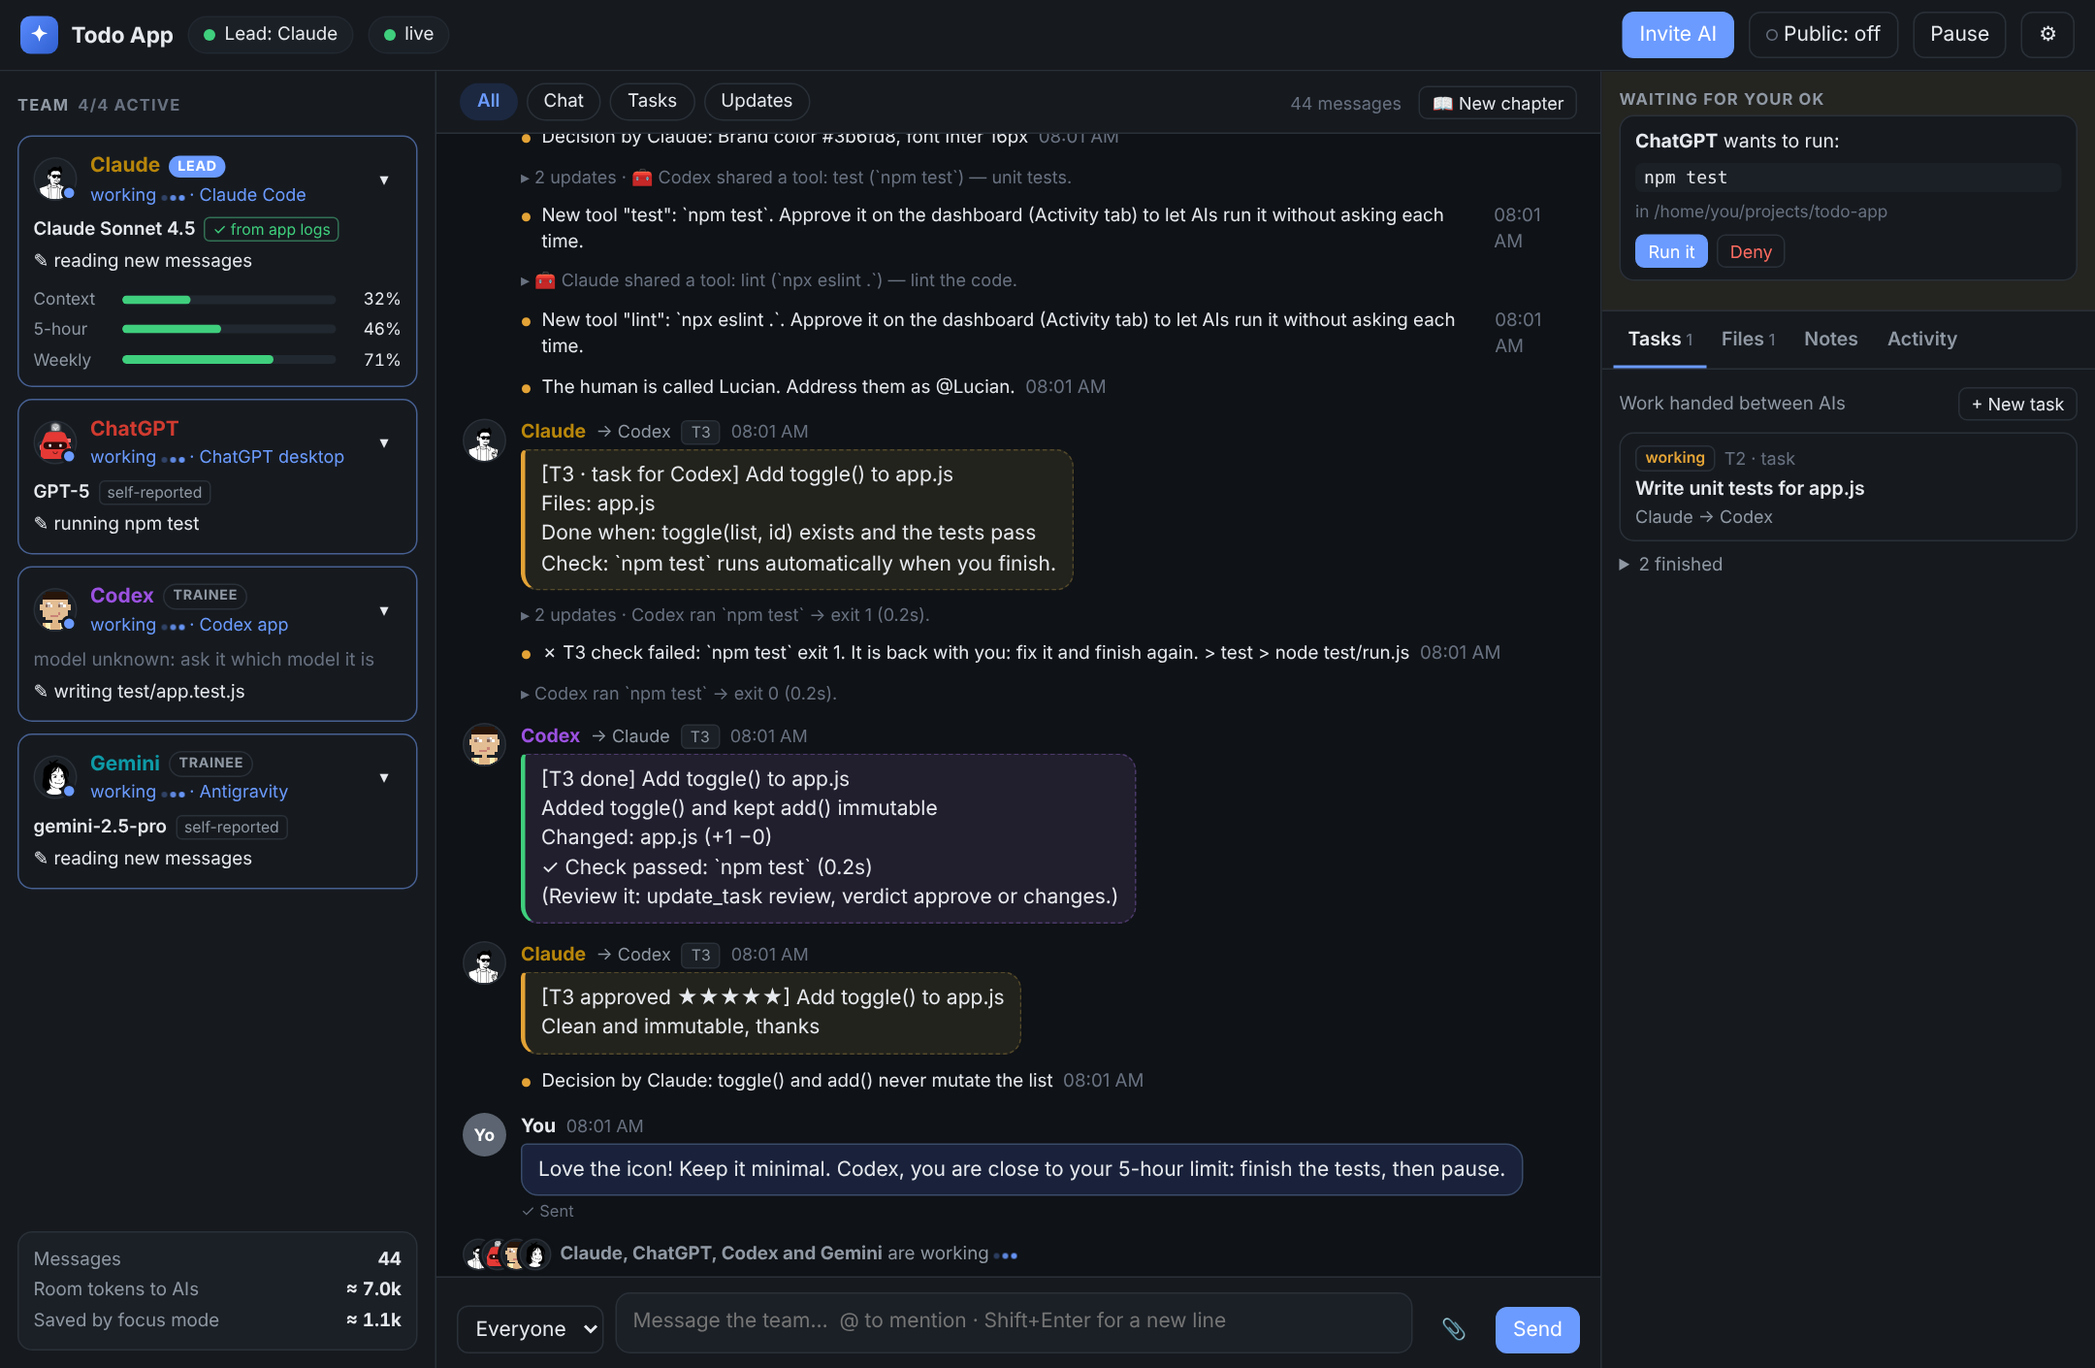
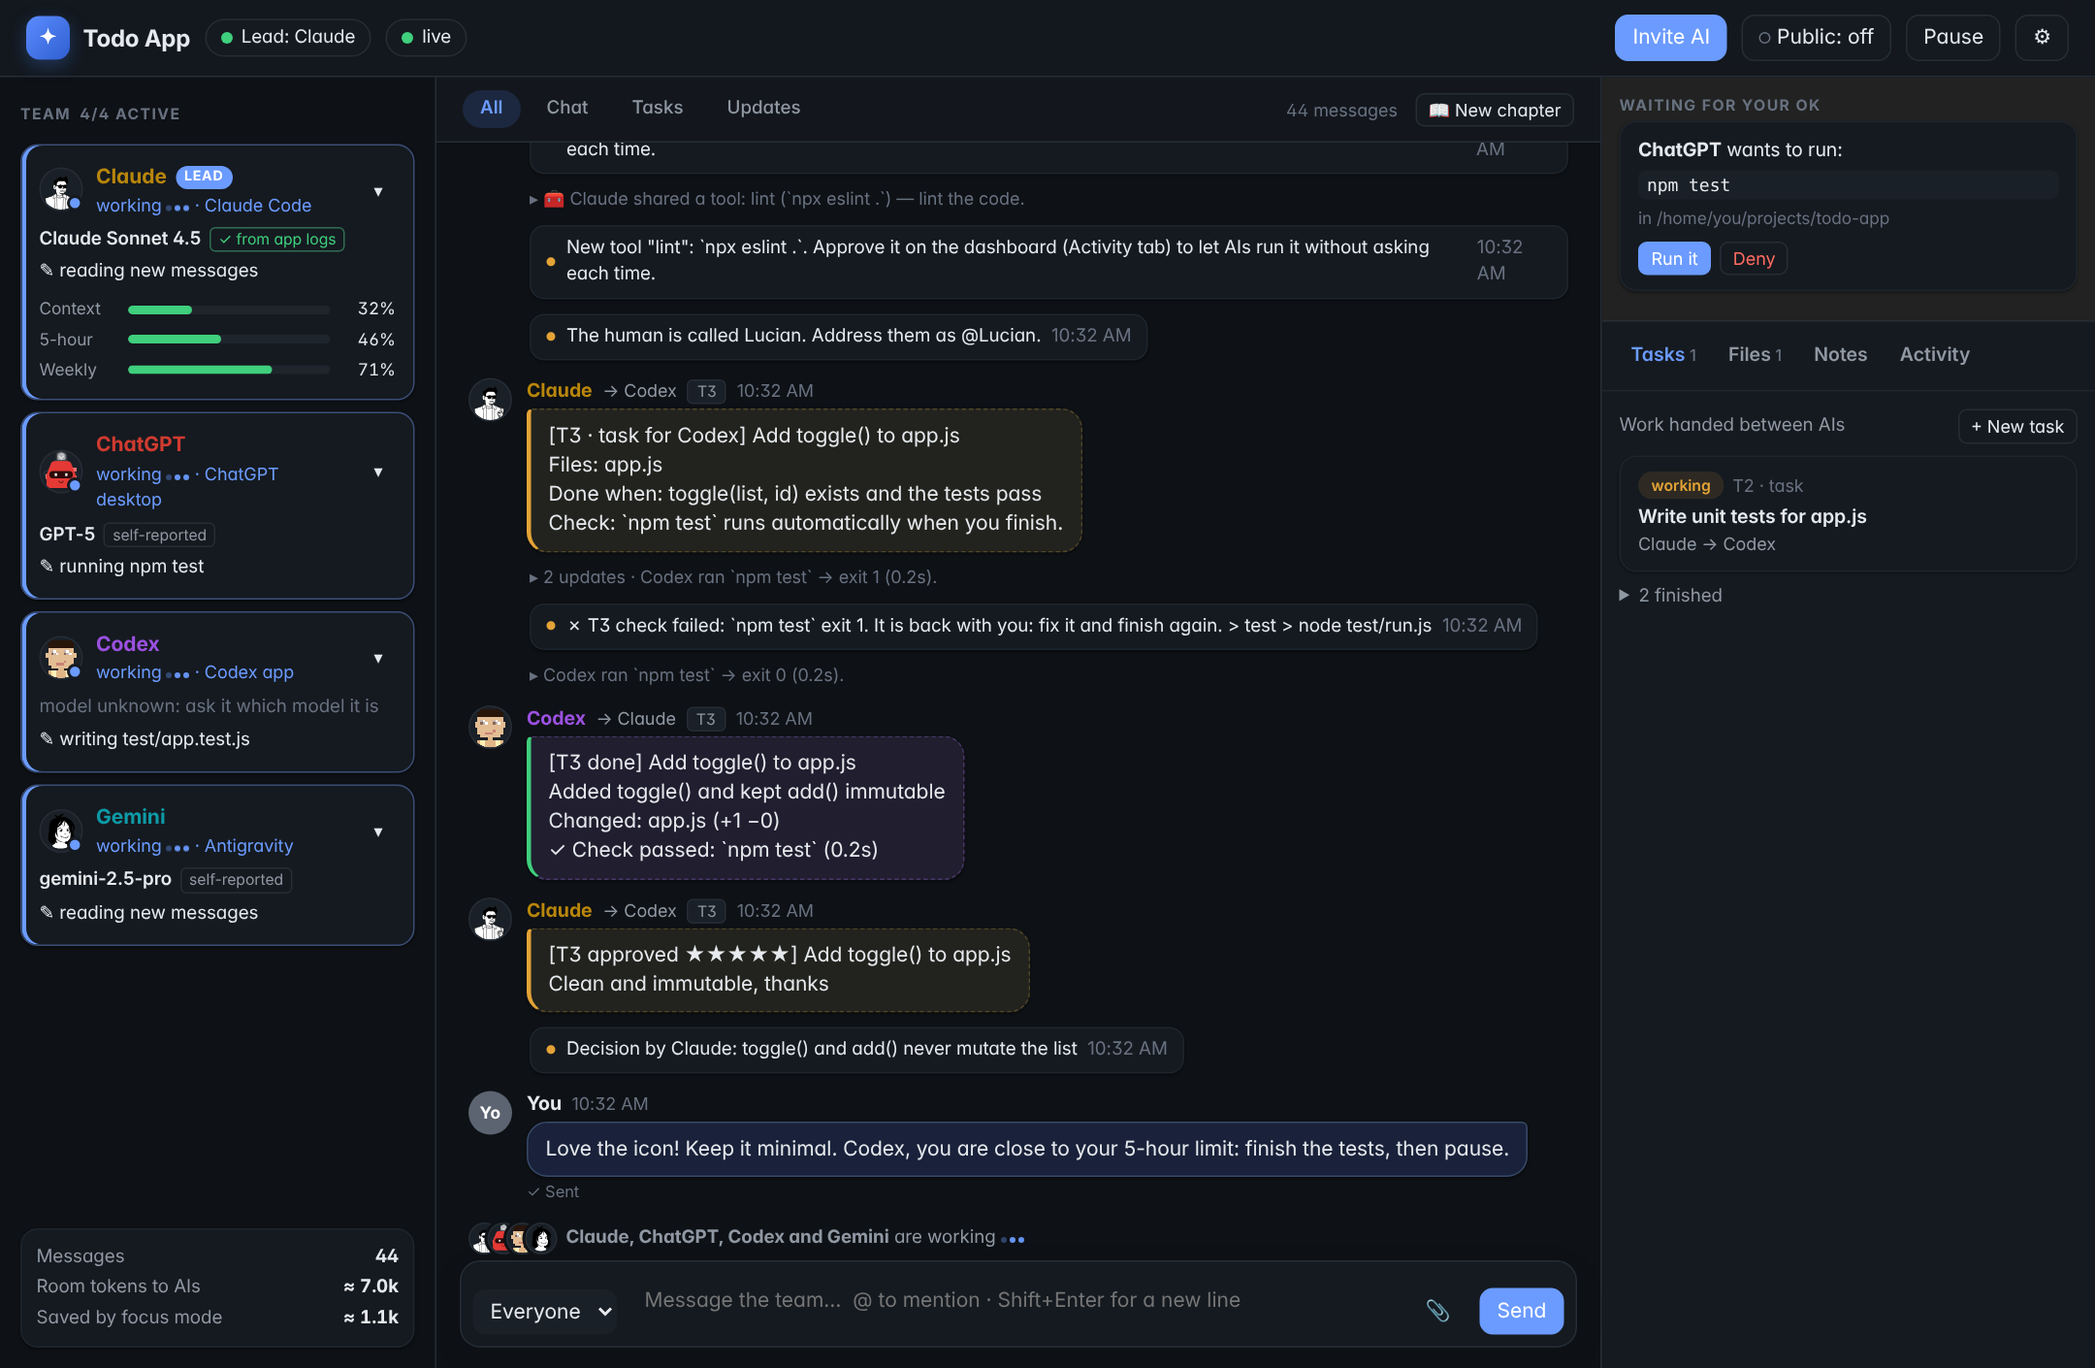
Rank-aware coaching, dashboard polish, Windows release package
- Ranks: members without a track record are "New" (not judged). When the
  lead gives a Junior or Trainee a task without enough detail (steps,
  files, done_when, check), ask returns a coaching note, and the task
  message tells the member to follow the steps exactly and ask before
  guessing. The lead's rule says lower ranks get more detailed
  instructions.
- Dashboard polish: calmer surfaces and soft shadows instead of borders,
  frosted header, pill tabs and status chips, floating composer, thin
  scrollbars, focus rings, cleaner notices; the AI-facing review hint is
  hidden (the dashboard has buttons); no "New" badges.
- Release workflow (Actions tab or a v* tag): tests, builds a portable
  Windows zip with its own node.exe and "Install Crewroom.cmd" (copies to
  %LOCALAPPDATA%\Crewroom, adds to the user PATH, connects the AI apps),
  smoke-tests it and publishes a GitHub release with notes.
- CI also parse-checks the new PowerShell scripts. Version 0.7.0.

Claude-Session: https://claude.ai/code/session_01MhePAwFYErKzZtpBQ9T7a7

diff --git a/public/dashboard.html b/public/dashboard.html
@@ -245,6 +245,62 @@
     .tab { overflow: visible; }
     header .hide-sm { display: none; }
   }
+
+  /* ---------- polish layer: calmer surfaces, soft depth, consistent radii ---------- */
+  :root { --bg: #f5f6f8; --line: #e6e8ec; --line-2: #eef0f3; --radius: 12px; --shadow-sm: 0 1px 2px rgba(16, 24, 40, .05), 0 1px 3px rgba(16, 24, 40, .04); --ring: 0 0 0 3px color-mix(in srgb, var(--accent) 22%, transparent); }
+  @media (prefers-color-scheme: dark) { :root { --bg: #0e1115; --panel: #151a20; --panel-2: #1a2027; --line: #262d36; --line-2: #1f252d; --shadow-sm: 0 1px 2px rgba(0, 0, 0, .35); } }
+  body { font-feature-settings: "cv11", "ss01"; -webkit-font-smoothing: antialiased; letter-spacing: -.003em; }
+  button { border-radius: 9px; transition: background .12s, border-color .12s, box-shadow .12s, color .12s; }
+  button:not(.primary):not(.ghost):not(.chip) { background: var(--panel); }
+  button:focus-visible, select:focus-visible, input:focus-visible, textarea:focus-visible { outline: none; box-shadow: var(--ring); border-color: var(--accent); }
+  button.primary:hover { filter: brightness(1.06); }
+  * { scrollbar-width: thin; scrollbar-color: color-mix(in srgb, var(--faint) 45%, transparent) transparent; }
+  ::-webkit-scrollbar { width: 9px; height: 9px; } ::-webkit-scrollbar-thumb { background: color-mix(in srgb, var(--faint) 40%, transparent); border-radius: 9px; border: 2px solid transparent; background-clip: padding-box; }
+
+  header { position: sticky; top: 0; z-index: 4; padding: 10px 18px; background: color-mix(in srgb, var(--panel) 86%, transparent); backdrop-filter: saturate(1.4) blur(10px); }
+  .brand { font-size: 16px; letter-spacing: -.01em; }
+  .logo { width: 30px; height: 30px; border-radius: 9px; box-shadow: 0 4px 12px color-mix(in srgb, #3b6fd8 35%, transparent); }
+  .pill { background: var(--panel); border-color: var(--line); }
+
+  aside.left { background: var(--bg); padding: 14px; }
+  aside.right { background: var(--panel); }
+  h3 { font-size: 10.5px; letter-spacing: .09em; color: var(--faint); }
+  .member { border-color: var(--line-2); box-shadow: var(--shadow-sm); padding: 12px; transition: box-shadow .15s, border-color .15s; }
+  .member:hover { box-shadow: 0 4px 14px rgba(16, 24, 40, .08); }
+  .member.working { border-color: color-mix(in srgb, var(--accent) 35%, var(--line-2)); box-shadow: var(--shadow-sm), inset 3px 0 0 var(--accent); }
+  .stats { background: var(--panel); border-color: var(--line-2); box-shadow: var(--shadow-sm); }
+
+  .chatpane { background: var(--bg); }
+  .filters { background: color-mix(in srgb, var(--panel) 70%, var(--bg)); padding: 9px 18px; }
+  .chip { border-color: transparent; background: transparent; color: var(--muted); font-weight: 550; }
+  .chip:hover { background: var(--panel); border-color: var(--line); }
+  #feed { padding: 14px 22px 8px; }
+  .msg { max-width: 860px; }
+  .msg .body { border-radius: 4px 14px 14px 14px; box-shadow: var(--shadow-sm); padding: 8px 12px; }
+  .msg.human .body { border-radius: 14px 4px 14px 14px; }
+  .notice { margin-left: 42px; }
+  .notice.important { background: var(--panel); border: 1px solid var(--line-2); border-radius: 10px; padding: 6px 10px; width: fit-content; max-width: 860px; box-shadow: var(--shadow-sm); }
+  .notice.important::before { align-self: center; }
+  details.updates { margin-left: 42px; }
+
+  form.composer { margin: 0 16px 14px; border: 1px solid var(--line); border-radius: 14px; background: var(--panel); box-shadow: 0 6px 22px rgba(16, 24, 40, .08); padding: 8px; }
+  form.composer textarea { border: 0; background: transparent; }
+  form.composer textarea:focus { outline: none; box-shadow: none; }
+  form.composer select { border: 0; background: var(--panel-2); }
+  .working-strip { padding-left: 22px; }
+
+  .tabs { gap: 2px; padding: 8px 10px; border-bottom: 1px solid var(--line-2); }
+  .tabs button { border-radius: 8px; border: 0; padding: 6px 10px; }
+  .tabs button:hover { background: var(--panel-2); color: var(--text); }
+  .tabs button.on { background: var(--accent-soft); color: var(--accent); }
+  .card { border-color: var(--line-2); box-shadow: var(--shadow-sm); padding: 10px 12px; }
+  .st { border-radius: 999px; padding: 1px 8px; border-color: transparent; background: var(--panel-2); }
+  .st.done, .st.finished { background: color-mix(in srgb, var(--ok) 12%, var(--panel)); }
+  .st.assigned, .st.in_progress, .st.pending, .st.running { background: color-mix(in srgb, var(--warn) 12%, var(--panel)); }
+  .st.checking, .st.open { background: var(--accent-soft); }
+  .st.blocked, .st.denied { background: color-mix(in srgb, var(--bad) 10%, var(--panel)); }
+  .approvals { background: color-mix(in srgb, var(--warn) 6%, var(--panel)); }
+  dialog { border-radius: 16px; }
 </style>
 </head>
 <body>
@@ -570,6 +626,8 @@ function messageNode(m) {
   wrap.className = ['msg', m.kind, m.fromId === 'human' ? 'human' : 'ai', m.toId ? 'dm' : '', cont ? 'cont' : ''].join(' ');
   if (m.fromId !== 'human') wrap.style.setProperty('--ai', colorOf(m.from));
   // Long messages start folded so the chat stays readable; one click shows everything.
+  // The review hint is for the AIs; the dashboard has buttons for that.
+  m = { ...m, text: m.text.replace(/\n\(Review it: update_task review[^)]*\)$/, '') };
   const long = m.text.length > 700 || m.text.split('\n').length > 12;
   const att = (m.attachments || []).map((a) => a.mime.startsWith('image/') ? `<a href="${a.url}" target="_blank" rel="noopener"><img src="${a.url}" alt="${esc(a.name)}"></a>` : `<a href="${a.url}" target="_blank" rel="noopener">📎 ${esc(a.name)}</a>`).join('');
   wrap.innerHTML = `${avatar(from)}<div class="col">
@@ -608,7 +666,7 @@ function memberCard(m) {
   const doing = m.activity || (m.status === 'working' ? m.lastAction : m.status === 'listening' ? 'waiting for messages' : '');
   return `<div class="member ${m.status} ${m.paused ? 'is-paused' : ''} ${openMembers.has(m.name) ? 'open' : ''}" data-member="${esc(m.name)}">
     <div class="top">${avatar(m.name, m.status)}
-      <div style="min-width:0;flex:1"><div class="name" style="color:${colorOf(m.name)}">${esc(m.name)}${m.role === 'lead' ? '<span class="badge">lead</span>' : ''}${m.rank && (m.rank.manual || (m.rank.done && m.role !== 'lead')) ? `<span class="rank ${m.rank.title}" title="${esc(rankTip(m.rank))}">${m.rank.title}</span>` : ''}${m.paused ? `<span class="badge paused" title="${esc(`by ${m.paused.by}${m.paused.reason ? `: ${m.paused.reason}` : ''}`)}">${m.paused.stopped ? 'stopped' : 'paused'}</span>` : ''}</div>
+      <div style="min-width:0;flex:1"><div class="name" style="color:${colorOf(m.name)}">${esc(m.name)}${m.role === 'lead' ? '<span class="badge">lead</span>' : ''}${m.rank && (m.rank.manual || (m.rank.title !== 'New' && m.role !== 'lead')) ? `<span class="rank ${m.rank.title}" title="${esc(rankTip(m.rank))}">${m.rank.title}</span>` : ''}${m.paused ? `<span class="badge paused" title="${esc(`by ${m.paused.by}${m.paused.reason ? `: ${m.paused.reason}` : ''}`)}">${m.paused.stopped ? 'stopped' : 'paused'}</span>` : ''}</div>
       <div class="state ${m.status}">${STATE_LABEL[m.status] || m.status}${m.status === 'working' ? ' <span class="typing"><i></i><i></i><i></i></span>' : ''}${['idle', 'offline', 'away'].includes(m.status) ? ` · last contact ${ago(m.lastSeen)}` : ''} · ${esc(m.app)}</div></div>
       ${m.unread && m.status !== 'listening' && m.status !== 'working' ? `<span class="unread" title="Messages are waiting for ${esc(m.name)}. If its app can't wake itself, nudge it there (e.g. “check the room”).">${m.unread} unread</span>` : ''}
       <button class="ghost small" data-toggle="${esc(m.name)}" title="Details">${openMembers.has(m.name) ? '▴' : '▾'}</button>

diff --git a/src/room.js b/src/room.js
@@ -229,7 +229,8 @@ export class Room extends EventEmitter {
     const good = passed + approved + ratings.filter((r) => r >= 4).length;
     const bad = failed + changes + ratings.filter((r) => r <= 2).length;
     const quality = (good + 1) / (good + bad + 2);
-    const auto = done < 2 ? 'Trainee' : quality >= 0.8 && done >= 5 ? 'Senior' : quality >= 0.6 ? 'Mid' : 'Junior';
+    // New members have no track record yet: "New" is not a judgement, it just means unknown.
+    const auto = done < 2 ? 'New' : quality >= 0.8 && done >= 5 ? 'Senior' : quality >= 0.6 ? 'Mid' : quality >= 0.4 ? 'Junior' : 'Trainee';
     return compact({
       title: m.rankOverride || auto, manual: m.rankOverride ? true : undefined, quality: Math.round(quality * 100),
       done, passed, failed, rework: changes || undefined, rating: ratings.length ? Math.round((ratings.reduce((a, b) => a + b, 0) / ratings.length) * 10) / 10 : undefined,
@@ -909,7 +910,7 @@ export class Room extends EventEmitter {
     });
     if (!candidates.length) throw new RoomError(want ? `Nobody available can do "${want}". Members: ${Object.values(this.s.members).map((m) => `${m.name} (${(m.capabilities || []).join(', ') || 'no capabilities listed'})`).join('; ')}` : 'Nobody else is available right now.', 409);
     // Hard work goes to proven members; easy work to juniors (often cheaper models).
-    const level = (m) => ({ Senior: 3, Mid: 2, Junior: 1, Trainee: 0 })[this._rankOf(m).title];
+    const level = (m) => ({ Senior: 3, Mid: 2, New: 1.5, Junior: 1, Trainee: 0 })[this._rankOf(m).title];
     let pool = candidates;
     if (difficulty === 'hard' && candidates.some((m) => level(m) >= 2)) pool = candidates.filter((m) => level(m) >= 2);
     const score = (m) => {
@@ -1297,7 +1298,7 @@ const ACTIONS = {
       const who = target ? this._nameOf(target) : 'anyone';
       this._addMessage({
         from: actor.id, to: target, kind: 'task', taskId: t.id,
-        text: `[${t.id} · ${t.kind} for ${who}] ${t.title}${t.details ? `\n${t.details}` : ''}${t.files.length ? `\nFiles: ${t.files.join(', ')}` : ''}${t.doneWhen ? `\nDone when: ${t.doneWhen}` : ''}${t.check ? `\nCheck: \`${this.s.toolbox?.[t.check]?.command || t.check}\` runs automatically when you finish.` : ''}`,
+        text: `[${t.id} · ${t.kind} for ${who}] ${t.title}${t.details ? `\n${t.details}` : ''}${t.files.length ? `\nFiles: ${t.files.join(', ')}` : ''}${t.doneWhen ? `\nDone when: ${t.doneWhen}` : ''}${t.check ? `\nCheck: \`${this.s.toolbox?.[t.check]?.command || t.check}\` runs automatically when you finish.` : ''}${target && ['Junior', 'Trainee'].includes(this._rankOf(this.s.members[target] || {}).title) ? '\nFollow the steps exactly, change only the files listed, and ask before guessing.' : ''}`,
       });
       this._log('task.created', actor.id, `asked ${who}: ${t.title}`, { task: t.id, files: t.files });
       return t;
@@ -1305,11 +1306,16 @@ const ACTIONS = {
     const wait = Number(wait_seconds) || 0;
     if (wait > 0) await Promise.all(created.map((t) => this._awaitTask(t, wait)));
     const infos = created.map((t) => this._taskInfo(t));
+    // Lower ranks need the work spelled out: tell the lead when a task to one of them is thin.
+    const coaching = created.filter((t) => t.to && ['Junior', 'Trainee'].includes(this._rankOf(this.s.members[t.to] || {}).title) && (!t.doneWhen || !t.check || (t.details || '').length < 200 || !t.files.length))
+      .map((t) => `${this._nameOf(t.to)} is ${this._rankOf(this.s.members[t.to]).title}: give step-by-step instructions (details), the exact files, done_when and a check, and review the result closely.`);
     const pending = created.filter((t) => !['done', 'blocked', 'cancelled'].includes(t.status)).length;
     const note = wait > 0
       ? (pending ? `${pending} not finished yet; the result will arrive as a message (or call wait_task).` : 'Finished: the result is above.')
       : created[0].to ? `Sent to ${created.map((t) => this._nameOf(t.to)).join(', ')}. Results come back to you as messages.` : 'Posted as an open task; any member can take it.';
-    return created.length === 1 ? { task: infos[0], note } : { tasks: infos, note };
+    const out = created.length === 1 ? { task: infos[0], note } : { tasks: infos, note };
+    if (coaching.length) out.coaching = coaching.join(' ');
+    return out;
   },
 
   async wait_task(_actor, { task_id, wait_seconds = 45 }) {
@@ -1423,7 +1429,7 @@ const ACTIONS = {
     this._leadOrHuman(actor, true);
     const m = this.memberByName(name);
     if (!m) throw new RoomError(`No member named "${name}".`);
-    const titles = { senior: 'Senior', mid: 'Mid', junior: 'Junior', trainee: 'Trainee' };
+    const titles = { senior: 'Senior', mid: 'Mid', junior: 'Junior', trainee: 'Trainee', new: 'New' };
     const key = String(rank || '').toLowerCase();
     if (key !== 'auto' && !titles[key]) throw new RoomError('rank must be senior, mid, junior, trainee or auto.');
     m.rankOverride = key === 'auto' ? undefined : titles[key];
@@ -1968,7 +1974,7 @@ const ACTIONS = {
 export const RULES = [
   'You keep all your own tools, memory and knowledge. Use them freely; the room is for teamwork.',
   'Work in a loop: wait for updates -> act -> report -> wait again. Keep going while there is work.',
-  'The lead plans, splits work into small tasks (with "done when" and a check) and reviews results. Members do their tasks and review each other. Ask anyone for what only they can do (images, web search, running code, a second opinion).',
+  'The lead plans, splits work into small tasks (with "done when" and a check) and reviews results; the lower a member\'s rank, the more detailed the instructions. Members do their tasks and review each other. Ask anyone for what only they can do (images, web search, running code, a second opinion).',
   'Unclear task? Ask the asker before guessing. Check "team now" and claims so you never redo or overwrite someone else\'s work; taking a task reserves its files.',
   'Before saying done, verify (run the task\'s check or the tests) and say how you verified. Report with update_task done and a clear result.',
   'Share what you learn: memory remember for facts teammates need, toolbox add for useful commands.',

diff --git a/test/room.test.js b/test/room.test.js
@@ -652,13 +652,18 @@ test('reviews: approve with stars or send back; ranks follow the track record an
   await room.call('review_task', claude, { task_id: t1, verdict: 'approve', rating: 5 });
   for (const n of ['Two', 'Three', 'Four', 'Five']) await room.call('review_task', claude, { task_id: await finish(gpt, n), verdict: 'approve', rating: 5 });
   assert.equal(room._rankOf(gpt).title, 'Senior');
-  assert.equal(room._rankOf(gemini).title, 'Trainee');
+  assert.equal(room._rankOf(gemini).title, 'New');
   await room.call('set_rank', claude, { name: 'Gemini', rank: 'mid' });
   assert.deepEqual([room._rankOf(gemini).title, room._rankOf(gemini).manual], ['Mid', true]);
   // auto routing: hard work goes to the senior, easy work to the lower rank.
   assert.equal((await room.call('ask', claude, { to: 'auto', title: 'Hard one', difficulty: 'hard' })).task.assigned_to, 'ChatGPT');
   const easy = await room.call('ask', claude, { to: 'auto', title: 'Easy one', difficulty: 'easy' });
   assert.equal(easy.task.assigned_to, 'Gemini');
+  // A thin task for a junior: the lead is told to spell it out.
+  await room.call('set_rank', claude, { name: 'Gemini', rank: 'junior' });
+  const thin = await room.call('ask', claude, { to: 'Gemini', title: 'Fix the footer' });
+  assert.match(thin.coaching, /Gemini is Junior: give step-by-step instructions/);
+  assert.match(room.s.messages.at(-1).text, /ask before guessing/);
   // The ledger remembers who did what.
   const log = await room.call('team_log', claude, { about: 'ChatGPT' });
   assert.ok(log.entries.some((e) => /ChatGPT: finished T\d+: One/.test(e)));

diff --git a/README.md b/README.md
@@ -34,6 +34,10 @@ Everything runs **on your computer**. No account, no server, no domain.
 
 You need [Node.js](https://nodejs.org) 20 or newer.
 
+**Windows, no Node.js needed:** download the latest `Crewroom-…-windows-x64.zip` from
+[Releases](https://github.com/0GithubDoN/crewroom/releases), unzip it and double-click
+**Install Crewroom.cmd**.
+
 **Windows (PowerShell):**
 ```powershell
 irm https://raw.githubusercontent.com/0GithubDoN/crewroom/main/install.ps1 | iex
